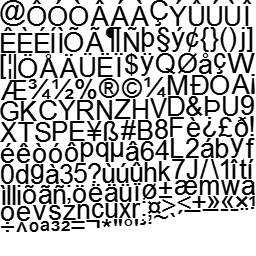
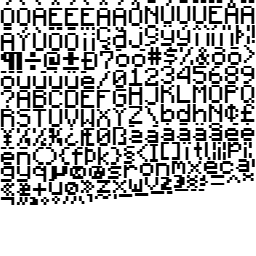
New font (minecraftia), some screen tweaks, added text padding

diff --git a/src/ru/game/aurora/gui/ResearchScreenController.java b/src/ru/game/aurora/gui/ResearchScreenController.java
@@ -91,6 +91,7 @@ public class ResearchScreenController implements ScreenController {
         }
         tr.setText(researchProjectDesc.getDescription());
         imagePanel.getRenderer(ImageRenderer.class).setImage(new NiftyImage(GUI.getInstance().getNifty().getRenderEngine(), new ImageSlickRenderImage(ResourceManager.getInstance().getImage(researchProjectDesc.getIcon()))));
+        GUI.getInstance().getNifty().getCurrentScreen().layoutLayers();
     }
 
     public void onIncreaseScientistsButtonClicked() {

diff --git a/src/ru/game/aurora/gui/ResearchReportScreenController.java b/src/ru/game/aurora/gui/ResearchReportScreenController.java
@@ -54,6 +54,7 @@ public class ResearchReportScreenController implements ScreenController
         if (research.getMakesAvailable() != null) {
             nextResearch.addAllItems(research.getMakesAvailable());
         }
+        GUI.getInstance().getNifty().getCurrentScreen().layoutLayers();
     }
 
     @Override

diff --git a/src/ru/game/aurora/gui/DialogController.java b/src/ru/game/aurora/gui/DialogController.java
@@ -69,7 +69,7 @@ public class DialogController implements ScreenController {
         for (Reply r : dialog.getCurrentStatement().getAvailableReplies(world)) {
             replies.addItem(r);
         }
-        screen.resetLayout();
+        screen.layoutLayers();
     }
 
     @Override
